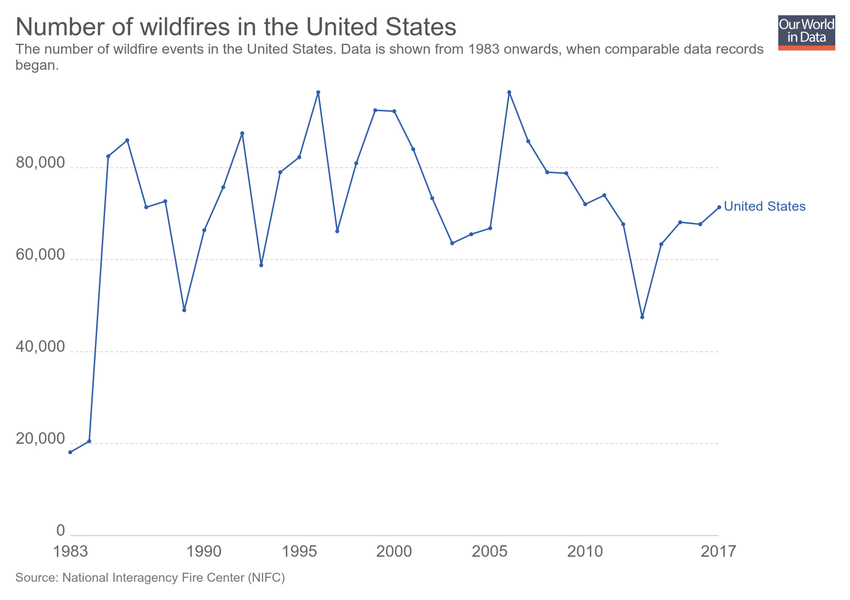
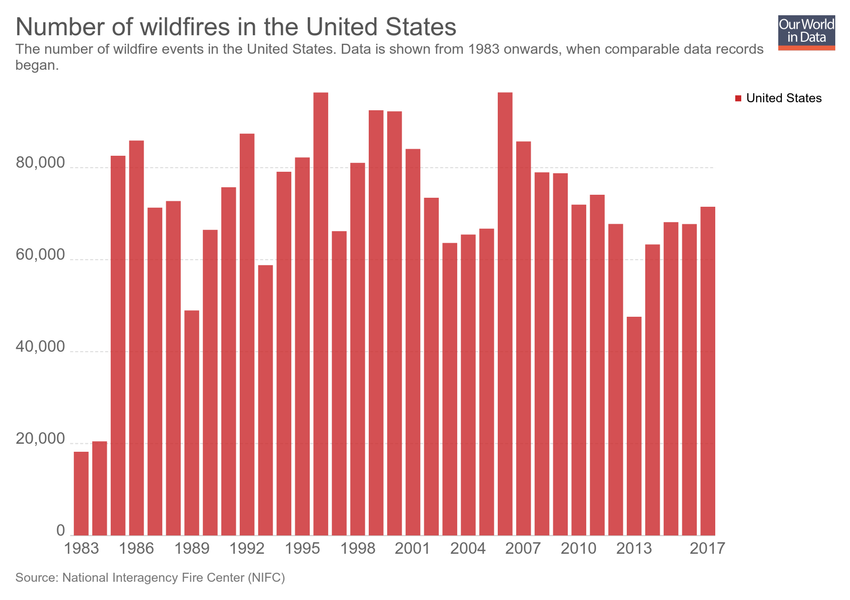
Updating chart wildfire-numbers-usa

diff --git a/grapher/acres-burned-usa.html b/grapher/acres-burned-usa.html
@@ -1,4 +1,4 @@
-<!doctype html><html><head><meta name="viewport" content="width=device-width, initial-scale=1" /><title>Wildfire acres burned in the United States - Our World in Data</title><meta name="description" content="Number of acres of wildfire burned in a given year in the United States. This is shown from 1983 onwards, when consistent reporting began. Data prior to 1983 is reported by the NIFC to not be comparable to that thereafter." /><link rel="canonical" href="https://ourworldindata.org/grapher/acres-burned-usa" /><meta property="fb:app_id" content="1149943818390250" /><meta property="og:url" content="https://ourworldindata.org/grapher/acres-burned-usa" /><meta property="og:title" content="Wildfire acres burned in the United States" /><meta property="og:description" content="Number of acres of wildfire burned in a given year in the United States. This is shown from 1983 onwards, when consistent reporting began. Data prior to 1983 is reported by the NIFC to not be comparable to that thereafter." /><meta property="og:image" content="https://ourworldindata.org/grapher/exports/acres-burned-usa.png?v=2" /><meta property="og:image:width" content="850" /><meta property="og:image:height" content="600" /><meta property="og:site_name" content="Our World in Data" /><meta name="twitter:card" content="summary_large_image" /><meta name="twitter:site" content="@OurWorldInData" /><meta name="twitter:creator" content="@OurWorldInData" /><meta name="twitter:title" content="Wildfire acres burned in the United States" /><meta name="twitter:description" content="Number of acres of wildfire burned in a given year in the United States. This is shown from 1983 onwards, when consistent reporting began. Data prior to 1983 is reported by the NIFC to not be comparable to that thereafter." /><meta name="twitter:image" content="https://ourworldindata.org/grapher/exports/acres-burned-usa.png?v=2" /><style>
+<!doctype html><html><head><meta name="viewport" content="width=device-width, initial-scale=1" /><title>Wildfire acres burned in the United States - Our World in Data</title><meta name="description" content="Number of acres of wildfire burned in a given year in the United States. This is shown from 1983 onwards, when consistent reporting began. Data prior to 1983 is reported by the NIFC to not be comparable to that thereafter." /><link rel="canonical" href="https://ourworldindata.org/grapher/acres-burned-usa" /><meta property="fb:app_id" content="1149943818390250" /><meta property="og:url" content="https://ourworldindata.org/grapher/acres-burned-usa" /><meta property="og:title" content="Wildfire acres burned in the United States" /><meta property="og:description" content="Number of acres of wildfire burned in a given year in the United States. This is shown from 1983 onwards, when consistent reporting began. Data prior to 1983 is reported by the NIFC to not be comparable to that thereafter." /><meta property="og:image" content="https://ourworldindata.org/grapher/exports/acres-burned-usa.png?v=3" /><meta property="og:image:width" content="850" /><meta property="og:image:height" content="600" /><meta property="og:site_name" content="Our World in Data" /><meta name="twitter:card" content="summary_large_image" /><meta name="twitter:site" content="@OurWorldInData" /><meta name="twitter:creator" content="@OurWorldInData" /><meta name="twitter:title" content="Wildfire acres burned in the United States" /><meta name="twitter:description" content="Number of acres of wildfire burned in a given year in the United States. This is shown from 1983 onwards, when consistent reporting began. Data prior to 1983 is reported by the NIFC to not be comparable to that thereafter." /><meta name="twitter:image" content="https://ourworldindata.org/grapher/exports/acres-burned-usa.png?v=3" /><style>
         html, body {
             height: 100%;
             margin: 0;
@@ -20,8 +20,8 @@
         }
     </style><noscript><style>
                     figure { display: none !important; }
-                </style></noscript><link rel="stylesheet" href="https://ourworldindata.org/grapher/assets/commons.bundle.1fb9afe5c9103588de22.css" /><link rel="preload" href="/grapher/data/variables/98075.json?v=2" as="fetch" crossorigin /></head><body class="singleChart"><figure data-grapher-src="/grapher/acres-burned-usa"></figure><noscript id="fallback"><img src="/grapher/exports/acres-burned-usa.svg" /><p>Interactive visualization requires JavaScript</p></noscript><script src="https://cdn.polyfill.io/v2/polyfill.min.js?features=es6,fetch"></script><script src="https://ourworldindata.org/grapher/assets/commons.bundle.1fb9afe5c9103588de22.js"></script><script src="https://ourworldindata.org/grapher/assets/charts.bundle.1fb9afe5c9103588de22.js"></script><script>
-        var jsonConfig = {"id":3063,"map":{"projection":"World","colorSchemeLabels":[],"colorSchemeValues":[],"customNumericColors":[],"customCategoryColors":{},"customCategoryLabels":{},"customHiddenCategories":{}},"tab":"chart","slug":"acres-burned-usa","type":"LineChart","title":"Wildfire acres burned in the United States","xAxis":{"scaleType":"linear"},"yAxis":{"min":0,"scaleType":"linear"},"version":2,"subtitle":"Number of acres of wildfire burned in a given year in the United States. This is shown from 1983 onwards, when consistent reporting began. Data prior to 1983 is reported by the NIFC to not be comparable to that thereafter.","hasMapTab":false,"stackMode":"absolute","dimensions":[{"display":{"shortUnit":"acres"},"property":"y","variableId":98075}],"sourceDesc":"National Interagency Fire Center (NIFC)","hasChartTab":true,"isPublished":true,"selectedData":[{"index":0,"entityId":13}],"addCountryMode":"add-country"};
+                </style></noscript><link rel="stylesheet" href="https://ourworldindata.org/grapher/assets/commons.bundle.1fb9afe5c9103588de22.css" /><link rel="preload" href="/grapher/data/variables/98075.json?v=3" as="fetch" crossorigin /></head><body class="singleChart"><figure data-grapher-src="/grapher/acres-burned-usa"></figure><noscript id="fallback"><img src="/grapher/exports/acres-burned-usa.svg" /><p>Interactive visualization requires JavaScript</p></noscript><script src="https://cdn.polyfill.io/v2/polyfill.min.js?features=es6,fetch"></script><script src="https://ourworldindata.org/grapher/assets/commons.bundle.1fb9afe5c9103588de22.js"></script><script src="https://ourworldindata.org/grapher/assets/charts.bundle.1fb9afe5c9103588de22.js"></script><script>
+        var jsonConfig = {"id":3063,"map":{"projection":"World","colorSchemeLabels":[],"colorSchemeValues":[],"customNumericColors":[],"customCategoryColors":{},"customCategoryLabels":{},"customHiddenCategories":{}},"tab":"chart","slug":"acres-burned-usa","type":"StackedBar","title":"Wildfire acres burned in the United States","xAxis":{"scaleType":"linear"},"yAxis":{"min":0,"scaleType":"linear"},"version":3,"subtitle":"Number of acres of wildfire burned in a given year in the United States. This is shown from 1983 onwards, when consistent reporting began. Data prior to 1983 is reported by the NIFC to not be comparable to that thereafter.","hasMapTab":false,"stackMode":"absolute","dimensions":[{"display":{"shortUnit":"acres"},"property":"y","variableId":98075}],"sourceDesc":"National Interagency Fire Center (NIFC)","hasChartTab":true,"isPublished":true,"selectedData":[{"index":0,"entityId":13}],"addCountryMode":"add-country"};
         var figure = document.getElementsByTagName("figure")[0];
         try {
             window.App = {};

diff --git a/grapher/wildfire-numbers-usa.html b/grapher/wildfire-numbers-usa.html
@@ -1,4 +1,4 @@
-<!doctype html><html><head><meta name="viewport" content="width=device-width, initial-scale=1" /><title>Number of wildfires in the United States - Our World in Data</title><meta name="description" content="The number of wildfire events in the United States. Data is shown from 1983 onwards, when comparable data records began." /><link rel="canonical" href="https://ourworldindata.org/grapher/wildfire-numbers-usa" /><meta property="fb:app_id" content="1149943818390250" /><meta property="og:url" content="https://ourworldindata.org/grapher/wildfire-numbers-usa" /><meta property="og:title" content="Number of wildfires in the United States" /><meta property="og:description" content="The number of wildfire events in the United States. Data is shown from 1983 onwards, when comparable data records began." /><meta property="og:image" content="https://ourworldindata.org/grapher/exports/wildfire-numbers-usa.png?v=1" /><meta property="og:image:width" content="850" /><meta property="og:image:height" content="600" /><meta property="og:site_name" content="Our World in Data" /><meta name="twitter:card" content="summary_large_image" /><meta name="twitter:site" content="@OurWorldInData" /><meta name="twitter:creator" content="@OurWorldInData" /><meta name="twitter:title" content="Number of wildfires in the United States" /><meta name="twitter:description" content="The number of wildfire events in the United States. Data is shown from 1983 onwards, when comparable data records began." /><meta name="twitter:image" content="https://ourworldindata.org/grapher/exports/wildfire-numbers-usa.png?v=1" /><style>
+<!doctype html><html><head><meta name="viewport" content="width=device-width, initial-scale=1" /><title>Number of wildfires in the United States - Our World in Data</title><meta name="description" content="The number of wildfire events in the United States. Data is shown from 1983 onwards, when comparable data records began." /><link rel="canonical" href="https://ourworldindata.org/grapher/wildfire-numbers-usa" /><meta property="fb:app_id" content="1149943818390250" /><meta property="og:url" content="https://ourworldindata.org/grapher/wildfire-numbers-usa" /><meta property="og:title" content="Number of wildfires in the United States" /><meta property="og:description" content="The number of wildfire events in the United States. Data is shown from 1983 onwards, when comparable data records began." /><meta property="og:image" content="https://ourworldindata.org/grapher/exports/wildfire-numbers-usa.png?v=3" /><meta property="og:image:width" content="850" /><meta property="og:image:height" content="600" /><meta property="og:site_name" content="Our World in Data" /><meta name="twitter:card" content="summary_large_image" /><meta name="twitter:site" content="@OurWorldInData" /><meta name="twitter:creator" content="@OurWorldInData" /><meta name="twitter:title" content="Number of wildfires in the United States" /><meta name="twitter:description" content="The number of wildfire events in the United States. Data is shown from 1983 onwards, when comparable data records began." /><meta name="twitter:image" content="https://ourworldindata.org/grapher/exports/wildfire-numbers-usa.png?v=3" /><style>
         html, body {
             height: 100%;
             margin: 0;
@@ -20,8 +20,8 @@
         }
     </style><noscript><style>
                     figure { display: none !important; }
-                </style></noscript><link rel="stylesheet" href="https://ourworldindata.org/grapher/assets/commons.bundle.1fb9afe5c9103588de22.css" /><link rel="preload" href="/grapher/data/variables/98074.json?v=1" as="fetch" crossorigin /></head><body class="singleChart"><figure data-grapher-src="/grapher/wildfire-numbers-usa"></figure><noscript id="fallback"><img src="/grapher/exports/wildfire-numbers-usa.svg" /><p>Interactive visualization requires JavaScript</p></noscript><script src="https://cdn.polyfill.io/v2/polyfill.min.js?features=es6,fetch"></script><script src="https://ourworldindata.org/grapher/assets/commons.bundle.1fb9afe5c9103588de22.js"></script><script src="https://ourworldindata.org/grapher/assets/charts.bundle.1fb9afe5c9103588de22.js"></script><script>
-        var jsonConfig = {"map":{"projection":"World","colorSchemeLabels":[],"colorSchemeValues":[],"customNumericColors":[],"customCategoryColors":{},"customCategoryLabels":{},"customHiddenCategories":{}},"tab":"chart","slug":"wildfire-numbers-usa","type":"LineChart","title":"Number of wildfires in the United States","xAxis":{"scaleType":"linear"},"yAxis":{"min":0,"scaleType":"linear"},"version":1,"subtitle":"The number of wildfire events in the United States. Data is shown from 1983 onwards, when comparable data records began.","hasMapTab":false,"stackMode":"absolute","dimensions":[{"display":{},"property":"y","variableId":98074}],"sourceDesc":"National Interagency Fire Center (NIFC)","hasChartTab":true,"isPublished":true,"selectedData":[{"index":0,"entityId":13}],"addCountryMode":"add-country","id":3065};
+                </style></noscript><link rel="stylesheet" href="https://ourworldindata.org/grapher/assets/commons.bundle.1fb9afe5c9103588de22.css" /><link rel="preload" href="/grapher/data/variables/98074.json?v=3" as="fetch" crossorigin /></head><body class="singleChart"><figure data-grapher-src="/grapher/wildfire-numbers-usa"></figure><noscript id="fallback"><img src="/grapher/exports/wildfire-numbers-usa.svg" /><p>Interactive visualization requires JavaScript</p></noscript><script src="https://cdn.polyfill.io/v2/polyfill.min.js?features=es6,fetch"></script><script src="https://ourworldindata.org/grapher/assets/commons.bundle.1fb9afe5c9103588de22.js"></script><script src="https://ourworldindata.org/grapher/assets/charts.bundle.1fb9afe5c9103588de22.js"></script><script>
+        var jsonConfig = {"id":3065,"map":{"projection":"World","colorSchemeLabels":[],"colorSchemeValues":[],"customNumericColors":[],"customCategoryColors":{},"customCategoryLabels":{},"customHiddenCategories":{}},"tab":"chart","slug":"wildfire-numbers-usa","type":"StackedBar","title":"Number of wildfires in the United States","xAxis":{"scaleType":"linear"},"yAxis":{"min":0,"scaleType":"linear"},"version":3,"subtitle":"The number of wildfire events in the United States. Data is shown from 1983 onwards, when comparable data records began.","hasMapTab":false,"stackMode":"absolute","dimensions":[{"display":{},"property":"y","variableId":98074}],"sourceDesc":"National Interagency Fire Center (NIFC)","hasChartTab":true,"isPublished":true,"selectedData":[{"color":"#ca2628","index":0,"entityId":13}],"addCountryMode":"add-country","baseColorScheme":"owid-distinct"};
         var figure = document.getElementsByTagName("figure")[0];
         try {
             window.App = {};
